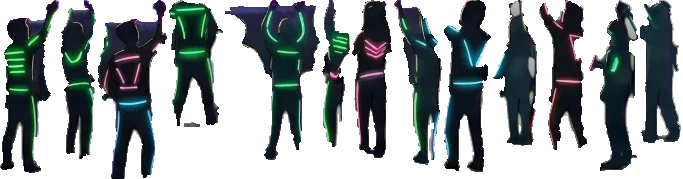
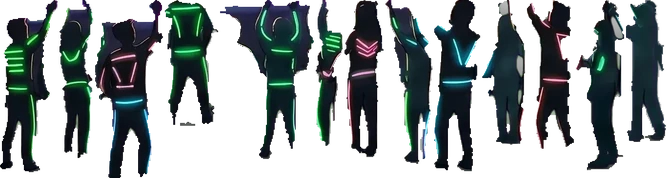
feat(bloomscroll): sharper wide festival from the upscale, stage wall filled
- The wide festival and its dancers are cut from Terry's 4096 px upscale.
  Big or sharp screens (scene width x pixel density over 2200) load the
  @2x files; tablets and 1x desktops load a downscale of the same cut,
  so one set of figure positions fits both. Nothing moves.
- The stage's back-right wall was painted the key magenta and cut out
  see-through; it is now filled in from the wall around it (wide and
  phone).

diff --git a/components/feed/BloomscrollScene.js b/components/feed/BloomscrollScene.js
@@ -18,11 +18,12 @@ import { useEffect, useRef } from "react"
 // so a sharper file of the same shape replaces one with no other change.
 const IMG = "/images/bloomscroll/"
 // Bump when any scene image is replaced, so no browser mixes a cached old picture with new code
-const ART_V = "v=3"
+const ART_V = "v=4"
 const MOON = "moon.webp"
 const WIDE_ART = {
   sky: "sky.webp", far: "far-cut.webp", soft: "far-cut-blur.webp", clouds: "clouds.webp",
   fest: "festival-concert.webp", lights: "glow-lights-concert.webp", figures: "crowd-concert-figures.webp",
+  fest2x: "festival-concert@2x.webp", figures2x: "crowd-concert-figures@2x.webp",
   near: "near.webp", tallL: "trees-tall-left.webp", tallR: "trees-tall-right.webp", flowers: "near-flowers.webp",
 }
 const PHONE_ART = {
@@ -61,7 +62,7 @@ const LIFE = {
     fires: [[0.8315, 0.795, 0.024, "bonfire"], [0.937, 0.258, 0.014, "torch"]],
     wheel: [0.8264, 0.475, 0.0455],
     hoops: [[0.8795, 0.621, 0.011], [0.9175, 0.643, 0.011], [0.948, 0.655, 0.011], [0.9945, 0.646, 0.011]],
-    figures: [[0.127,0.63679,0.0295,0.20401,0.0,0.08638,0.96648],[0.148,0.64976,0.0175,0.1875,0.08931,0.05124,0.88827],[0.1605,0.63443,0.0345,0.21108,0.14348,0.10102,0.99998],[0.1965,0.70519,0.027,0.14976,0.24744,0.07906,0.70948],[0.2005,0.6533,0.0475,0.18868,0.32943,0.13909,0.89386],[0.2435,0.64976,0.014,0.17335,0.47145,0.041,0.82123],[0.2515,0.67689,0.02,0.18632,0.51537,0.05857,0.88268],[0.263,0.63915,0.024,0.19458,0.57687,0.07028,0.92181],[0.2825,0.66038,0.0235,0.20283,0.65007,0.06881,0.96089],[0.298,0.64741,0.022,0.17217,0.72182,0.06442,0.81564],[0.3125,0.65566,0.024,0.17689,0.78917,0.07028,0.838],[0.3325,0.64033,0.0245,0.20165,0.86237,0.07174,0.9553],[0.352,0.65684,0.0205,0.16863,0.93704,0.06003,0.79887]],
+    figures: [[0.12744,0.63751,0.02881,0.20311,0.0,0.0862,0.96714],[0.14844,0.65075,0.01685,0.18642,0.08912,0.05041,0.88767],[0.16089,0.63521,0.03394,0.21001,0.14244,0.10155,0.99999],[0.19678,0.70598,0.02661,0.14845,0.2469,0.07962,0.70687],[0.20093,0.6542,0.04688,0.18757,0.32944,0.14026,0.89314],[0.2439,0.65075,0.01343,0.17204,0.47261,0.04018,0.81919],[0.25195,0.67779,0.01953,0.18527,0.5157,0.05843,0.88219],[0.26343,0.63982,0.02344,0.19333,0.57706,0.07013,0.92057],[0.28296,0.6611,0.02295,0.20196,0.65011,0.06867,0.96166],[0.29834,0.64845,0.02148,0.17089,0.72169,0.06427,0.81372],[0.31299,0.6565,0.02344,0.17549,0.7889,0.07013,0.83562],[0.33276,0.64097,0.02417,0.20081,0.86194,0.07232,0.95619],[0.35229,0.65765,0.02002,0.16743,0.93718,0.0599,0.79724]],
     hop: 0.0081,
     rig: {
       heads: [[0.1275, 0.381], [0.1645, 0.355], [0.2475, 0.363], [0.2785, 0.394]], wall: [0.0525, 0.341, 0.289, 0.651], floor: 0.651, panel: [0.1425, 0.237, 0.578, 0.642],
@@ -207,9 +208,11 @@ export default function BloomscrollScene({ subtitle, children }) {
       setSrc(farImg, WIDE_ART.far)
       setSrc(farSoft, WIDE_ART.soft)
       setSrc(clouds.firstElementChild, WIDE_ART.clouds)
-      setSrc(figureSheet, WIDE_ART.figures)
+      // Big or sharp screens get the festival and its dancers at twice the pixels (same shape, so nothing moves)
+      const sharp = W * (devicePixelRatio || 1) > 2200
+      setSrc(figureSheet, sharp ? WIDE_ART.figures2x : WIDE_ART.figures)
       nearLeft.style.display = nearRight.style.display = ""
-      festImgs.forEach((img) => { setSrc(img, WIDE_ART[img.dataset.fest]); img.style.position = img.style.left = img.style.top = img.style.width = img.style.height = "" })
+      festImgs.forEach((img) => { setSrc(img, sharp && img.dataset.fest === "fest" ? WIDE_ART.fest2x : WIDE_ART[img.dataset.fest]); img.style.position = img.style.left = img.style.top = img.style.width = img.style.height = "" })
       if (wide) {
         // Desktop: the full near painting, a touch wider than the screen so no edge shows, seated on the bottom of the scene
         const nw = W * 1.06, nh = nw / NEAR_FULL_ASPECT, nl = -0.03 * W, nt = vis + 4 - nh

diff --git a/docs/bloomscroll-assets.md b/docs/bloomscroll-assets.md
@@ -22,8 +22,8 @@ All files are in `public/images/bloomscroll/`.
 | `far-cut.webp` | Far painting: trees, hills, path (sky cut out) | desktop, tablet | 1584×672 | 33:14 | transparent sky | **Yes (01)** |
 | `p-far-cut.webp` | Far painting | phone | 900×1117 | 0.806 | transparent sky | **Yes (02)** |
 | `far-cut-blur.webp` / `p-far-cut-blur.webp` | Soft-focus copy of the far painting | wide / phone | as above | | transparent | No: rebuilt from 01/02 |
-| `festival-concert.webp` | Wide concert festival, hopping figures lifted out (filled in behind them) | desktop, tablet | 2000×848 | 33:14 | transparent | **Yes (03)**, then re-cut |
-| `crowd-concert-figures.webp` | The 13 wide dancers who hop, packed side by side | desktop, tablet | 683×179 | sheet | transparent | No: rebuilt from 03 |
+| `festival-concert.webp` / `festival-concert@2x.webp` | Wide concert festival, hopping figures lifted out (filled in behind them) | desktop, tablet | 2000×849 / 4096×1738 | 33:14 | transparent | **Done**: cut from Terry's 4096 upscale; the 1x is its downscale |
+| `crowd-concert-figures.webp` / `@2x` | The 13 wide dancers who hop, packed side by side | desktop, tablet | 668×178 / 1369×365 | sheet | transparent | No: rebuilt from 03 |
 | `glow-lights-concert.webp` | Soft light glow (screen blend) | desktop, tablet | 1000×424 | 33:14 | opaque on black | No: rebuilt from 03 |
 | `p-festival4c.webp` | Phone concert festival, hopping figures lifted out (filled in behind them) | phone | 900×1117 | 0.806 | transparent | **Yes (04)**, then re-cut |
 | `p-crowd4-figures.webp` | The 8 phone dancers who hop, packed side by side | phone | 405×124 | sheet | transparent | No: rebuilt from 04 |
@@ -73,11 +73,13 @@ The 4× sizes to expect:
    - `04`: the phone concert cut in `approved-v2-2026-10-25/scripts/`. The blur radii and dilation sizes in that cut must be scaled to the new resolution.
    - Check every cut on bright red and on the real sky for halos.
 3. Rebuild the derived files (soft-focus far, crowd figure sheets, light glows) from the sharper masters, with blur radii scaled by the same factor.
-   - Wide: `wide_concert_cut.py`, then `crowd_figures.py wide` (it splits the figures out of the cut and rewrites the festival and glow).
+   - Wide: `wide_concert_cut.py . <out> [source]`, then `crowd_figures.py wide <out> <work>`. It splits the figures out of the cut and rewrites the festival and glow. Both scripts scale every pixel measure to the source width.
+   - A sharper source reuses the split checked at 2000 px: run the 2000 source first (it saves `crowd-concert-labels.png`), then the sharp one with `--labels <that file>`. A fresh split at 4096 leaves the thicker outlines behind as pale rims.
+   - Make the 1x files by downscaling the sharp outputs (Lanczos), so one set of figure positions fits both.
    - Phone: restore the committed `p-festival4c`, `p-crowd4` and `p-glow-lights4` first (`git checkout`), then `crowd_figures.py phone`.
    - Copy the new figure positions from `work/*-figures.json` into `LIFE.*.figures`, as `[x, y, w, h, sx, w·W/sheetW, h·H/sheetH]`.
 4. Export served sizes as WebP: 1× and 2× for wide art (for example `far-cut.webp` at 1584 wide and `far-cut@2x.webp` at 3168), and 1× and 2× for phone art.
-   - The component picks 2× on high-density screens.
+   - The component picks 2× when the scene's width × the screen's pixel density is over 2200 (for example 1440 at 2×, or 1706 at 1.5×). Tablets and 1× desktops load the 1x. Glows stay 1x: they are blurs.
    - Filenames stay stable, so no positions change.
    - Bump `ART_V` in the component, so browsers fetch the new files.
 5. Re-run the fidelity comparison (`docs/design/bloomscroll/fidelity/`) against approved v2 and against the build before the swap. Expected result: no geometry drift, and pixel changes only where the art got sharper.

diff --git a/docs/bloomscroll-scene.md b/docs/bloomscroll-scene.md
@@ -58,7 +58,7 @@ The Bloomscroll page (`/feed`) opens with an animated festival scene: the visito
 | Turning wheel (every screen) | centre (0.816, 0.493), radius 0.094 W, one turn per `9000·2π` ms, 12 gondolas, 24 rim bulbs, behind the tents |
 | Phone festival | portrait concert painting, split at **55.5 %**; left group set down **8 %**, right group **4 %** of the scene height |
 | Concert (every screen) | **124 bpm**; colours teal (98, 168, 172), chartreuse (206, 255, 29), magenta (255, 79, 216), violet (138, 92, 255), warm white (255, 238, 205), changing every 8 beats; beams, LED strip, LED panel pulse (the painted panel itself, tinted, so only its LED lines glow), strobe every 16 beats (a soft burst). The stage lights are drawn on their own canvas with faded edges, so no flash ever shows a box. |
-| Crowd hop (QA round 2, owner request) | the dancers in front of the stage are cut out whole (`scripts/crowd_figures.py`) and hop as solid figures: a quick hop on each beat, rolling across the crowd from left to right; height 0.81 % (wide) / 0.7 % (phone) of the painting. At rest the painting is exactly the original. The painted light-spinner (wide) and the right-hand hoop girl (phone) are out of the paintings, and the light-hoop sparks are gone. |
+| Crowd hop (QA round 2, owner request) | the dancers in front of the stage are cut out whole (`scripts/crowd_figures.py`) and hop as solid figures: a quick hop on each beat, rolling across the crowd from left to right; height 0.81 % (wide) / 0.7 % (phone) of the painting. At rest the painting is exactly the original. The painted light-spinner (wide) and the right-hand hoop girl (phone) are out of the paintings, and the light-hoop sparks are gone. The stage's back-right wall, painted the key magenta, is filled in from the wall around it (it used to cut out see-through). |
 | Bottom fade | desktop and tablet 14 % of the scene height; phone 30 % |
 | Reduced motion | everything still: moon up, lights on, no unfold, no hop, wheel still |
 | Walk-in on phones | counts from the first pixel of scroll (phones have no hold), so the scene moves straight away |
